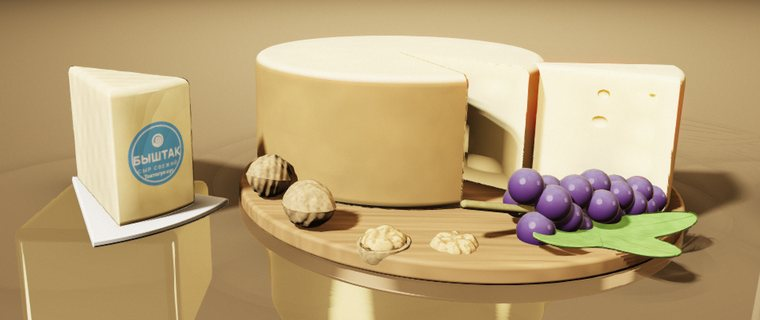
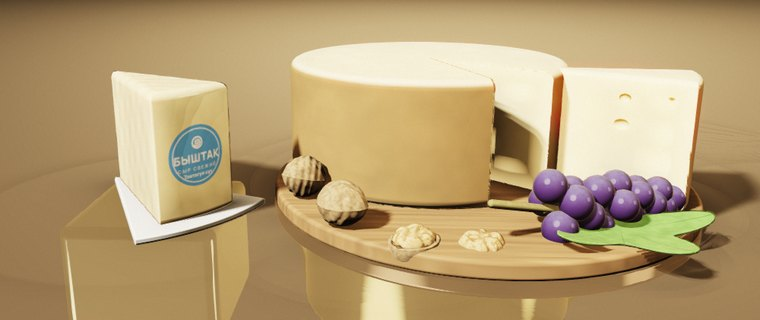
Творог зёрнами, новые миниатюры списка продукции
Творог в тостук — горка неровных зёрен-комочков. Миниатюры блока «Продукция»
пересобраны с нормальными полями, к ним добавлен ?v=2, чтобы браузеры не держали старые из кэша.

Claude-Session: https://claude.ai/code/session_01P1yNc379iRBnFitnB4zejM

diff --git a/public/index.html b/public/index.html
@@ -158,25 +158,25 @@
         <ul class="plist">
           <li class="reveal">
             <span class="num">01</span>
-            <img class="pimg" src="img/p1.jpg" alt="" width="760" height="320" loading="lazy" decoding="async">
+            <img class="pimg" src="img/p1.jpg?v=2" alt="" width="760" height="320" loading="lazy" decoding="async">
             <div><h3 data-i18n="p1h">Быштактар</h3><p data-i18n="p1p">Жаңысынан бышканына чейин. Азыркы ассортимент — суроо боюнча.</p></div>
             <a data-wa="waCheese" data-i18n="more" href="https://wa.me/996700309610">WhatsApp'тан билүү</a>
           </li>
           <li class="reveal">
             <span class="num">02</span>
-            <img class="pimg" src="img/p2.jpg" alt="" width="760" height="320" loading="lazy" decoding="async">
+            <img class="pimg" src="img/p2.jpg?v=2" alt="" width="760" height="320" loading="lazy" decoding="async">
             <div><h3 data-i18n="p2h">Йогурттар</h3><p data-i18n="p2p">Эртең мененки тамакка жана жеңил закускага назик йогурттар.</p></div>
             <a data-wa="waYogurt" data-i18n="more" href="https://wa.me/996700309610">WhatsApp'тан билүү</a>
           </li>
           <li class="reveal">
             <span class="num">03</span>
-            <img class="pimg" src="img/p3.jpg" alt="" width="760" height="320" loading="lazy" decoding="async">
+            <img class="pimg" src="img/p3.jpg?v=2" alt="" width="760" height="320" loading="lazy" decoding="async">
             <div><h3 data-i18n="p3h">Сары май</h3><p data-i18n="p3p">Каймактын чыныгы даамы — нанга жана бышырууга.</p></div>
             <a data-wa="waButter" data-i18n="more" href="https://wa.me/996700309610">WhatsApp'тан билүү</a>
           </li>
           <li class="reveal">
             <span class="num">04</span>
-            <img class="pimg" src="img/p4.jpg" alt="" width="760" height="320" loading="lazy" decoding="async">
+            <img class="pimg" src="img/p4.jpg?v=2" alt="" width="760" height="320" loading="lazy" decoding="async">
             <div><h3 data-i18n="p4h">Сүзмө жана башкалар</h3><p data-i18n="p4p">Сүзмө жана башка сүт азыктары — бүгүн эмне бар экенин сураңыз.</p></div>
             <a data-wa="waOther" data-i18n="more" href="https://wa.me/996700309610">WhatsApp'тан билүү</a>
           </li>

diff --git a/public/js/shaders.js b/public/js/shaders.js
@@ -726,6 +726,12 @@ vec2 bowlA(vec3 p){
   }
   return r;
 }
+/* зёрна творога: решётка синусов с искажением, чтобы комочки были неровными */
+float curd(vec3 b){
+  vec3 w=b*vec3(72.,66.,78.);
+  w+=2.6*vec3(sin(b.z*19.+b.y*7.),sin(b.x*17.+b.z*11.),sin(b.y*13.+b.x*21.));
+  return abs(sin(w.x)*sin(w.y+1.)*sin(w.z+2.));
+}
 /* творог в деревянной тостук Б2: мёд, ягоды, мята; ромбы вырезаны по поясу */
 vec2 bowlB(vec3 p){
   vec3 b=p; b.xz=rot(.2)*b.xz;
@@ -745,16 +751,16 @@ vec2 bowlB(vec3 p){
   }
   vec2 r=vec2(dW,34.);
   if(b.y>.1){
-    float m=sdEll(b-vec3(0.,.33,0.),vec3(.55,.195,.55));
-    m+=.008*sin(b.x*37.)*sin(b.y*31.)*sin(b.z*35.)+.004*sin(b.x*83.+b.z*61.);
+    float m=sdEll(b-vec3(0.,.36,0.),vec3(.55,.26,.55));
+    m+=.016*(.55-pow(curd(b),.55))+.006*sin(b.x*29.+b.z*23.);
     r=opU(r,vec2(max(m,dIn+.006),17.));
-    vec3 t=b-vec3(0.,.52,0.);
+    vec3 t=b-vec3(0.,.64,0.);
     float honey=smin(sdEll(t-vec3(-.05,-.02,.03),vec3(.22,.04,.18)),sdEll(t-vec3(.2,-.06,.1),vec3(.1,.035,.08)),.1);
     honey=smin(honey,sdEll(t-vec3(-.02,-.17,.24),vec3(.038,.1,.032)),.08);
     r=opU(r,vec2(honey,22.));
     for(int i=ZERO;i<4;i++){
       float fi=float(i);
-      vec3 bp=t-vec3(cos(fi*1.9+.3)*.33,-.1-.02*fi,sin(fi*1.9+.3)*.3);
+      vec3 bp=t-vec3(cos(fi*1.9+.3)*.33,-.075-.01*fi,sin(fi*1.9+.3)*.3);
       float d=length(bp)-.062+.011*sin(bp.x*70.)*sin(bp.y*66.)*sin(bp.z*74.);
       r=opU(r,vec2(d,18.));
     }
@@ -923,7 +929,12 @@ vec3 matColor(vec3 p,vec3 n,float id,out float rough,out float spec,out float ss
   }
   if(id<15.5){ rough=.2; spec=.9; return vec3(.84,.82,.77); }
   if(id<16.5){ rough=.38; spec=.5; sss=.9; return vec3(.88,.88,.86); }
-  if(id<17.5){ rough=.45; spec=.4; sss=.9; return vec3(.86,.85,.8)*(.9+.18*fbmL(p*45.)); }
+  if(id<17.5){                                   /* творог: зёрна-комочки со светлыми боками и тенью между ними */
+    vec3 cb=p-S4; cb.xz=rot(.2)*cb.xz;
+    float g=curd(cb);
+    rough=.5; spec=.35; sss=.9;
+    return vec3(.88,.86,.78)*(.66+.5*pow(g,.55))*(.92+.14*fbmL(p*30.));
+  }
   if(id<18.5){ rough=.18; spec=1.; return vec3(.62,.04,.09)*(.85+.3*fbmL(p*60.)); }
   if(id<19.5){ rough=.3; spec=.5; return vec3(.1,.13,.34)*(.8+.4*fbmL(p*40.)); }
   if(id<20.5){                                   /* тёмный виноград с восковым налётом */
